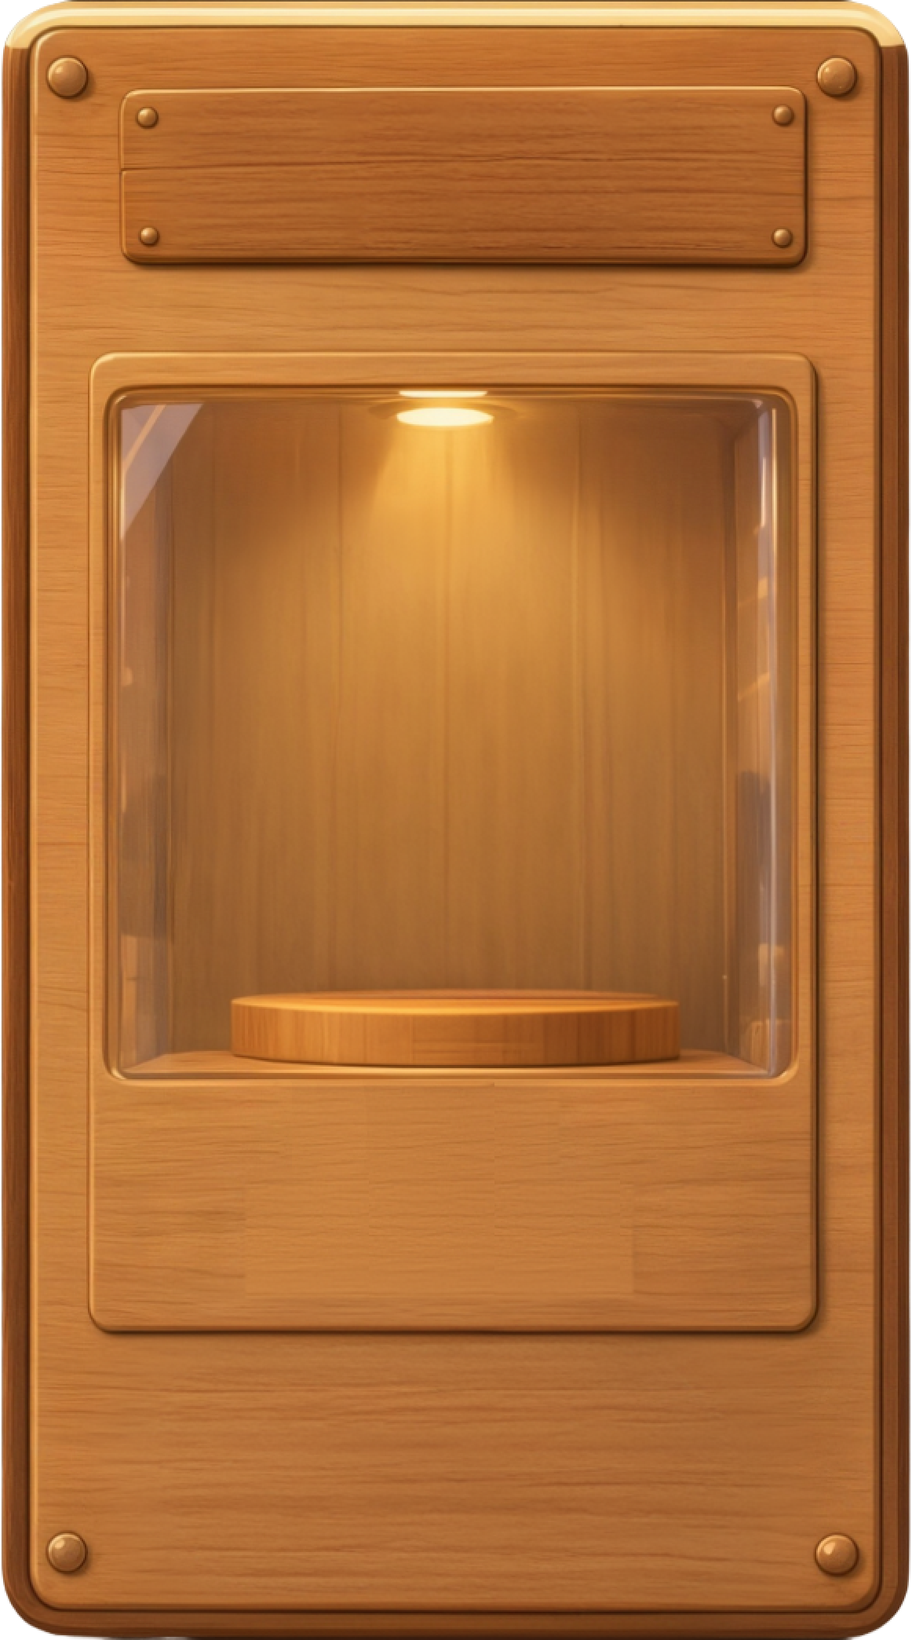
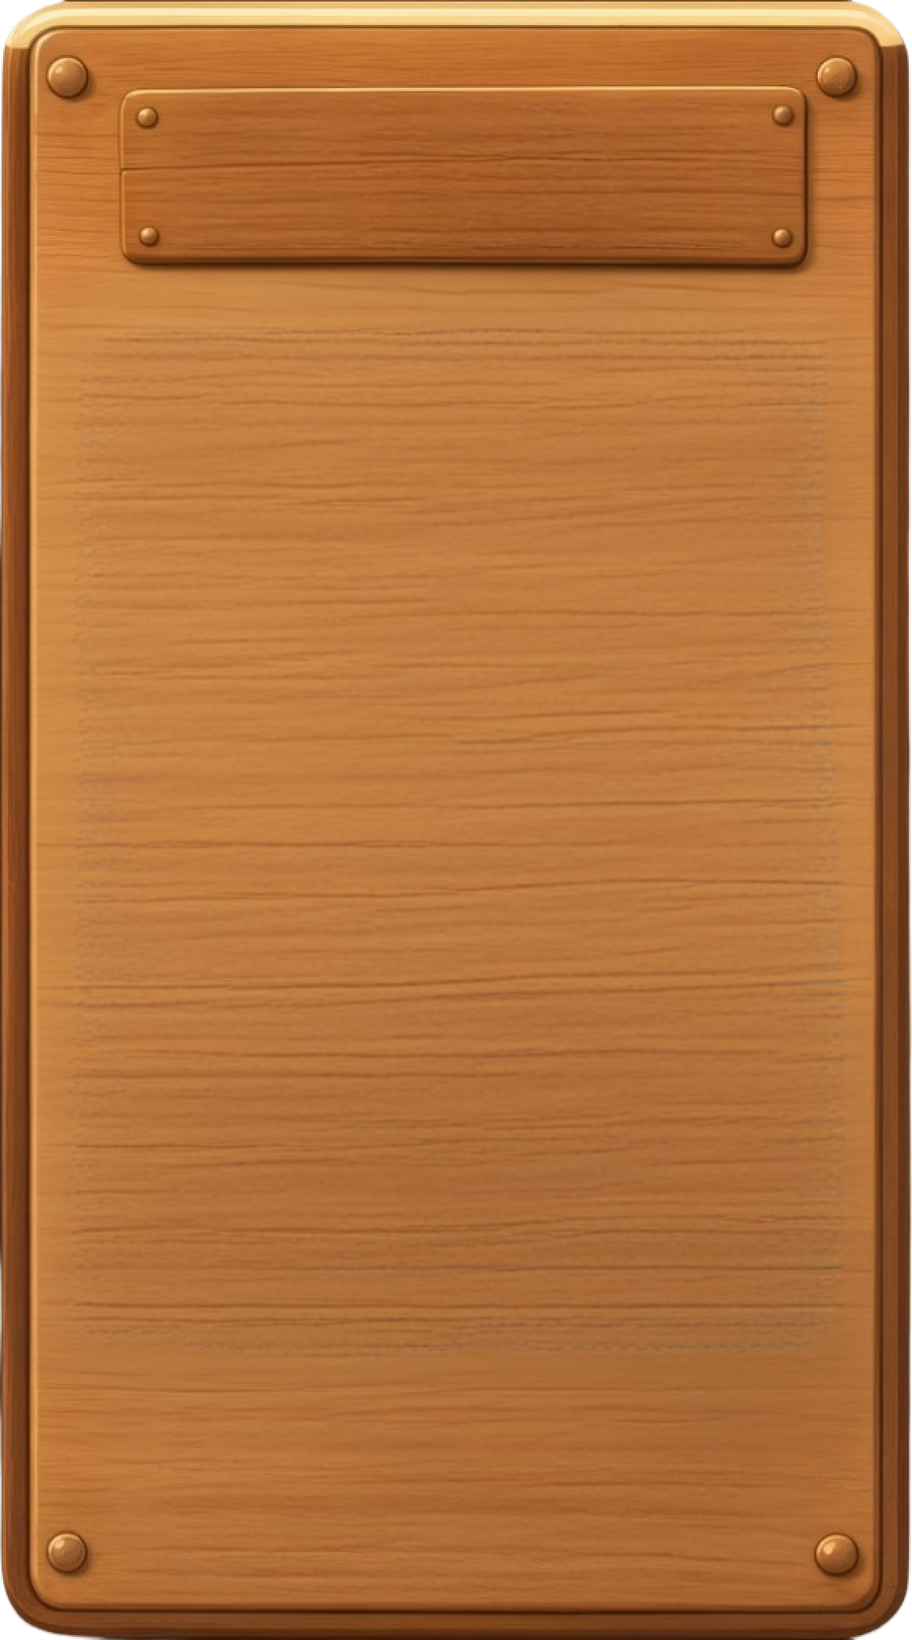
chore(beads): WXG-T-608 对话框背景改版稿重新下载并导入
用户令「对话框背景资源更新了，重新下载」。Figma 原始 nodes 接口实到
lastModified 2026-11-10T13:34:19Z / version 2420222447057842146，
95:116 两枚 IMAGE fill（旧 13f9490e 转 invisible、新 8161ce80 可见）。

- 重导出 825.0 KiB / sha ebb9e473…（旧 707ded7f…），99% 像素变化
- 新稿 = 纯木纹牌 + 顶部标题槽 + 四角铆钉，移除旧版牌内烘入的
  空橱窗 + 底座 + 道具格；几何 581×1044 零改动
- 覆盖设计源 ui_detail_plaque@2x.png；按在册 ship() 重出 Cocos 投放件
  并沿用现役 P 模式 + 透明索引（125,537 B，共同可见区与 RGBA 件
  逐像素一致 mean 0/max 0）；.meta 保持不动（L1）
- level-detail.ts 资产描述注释按 K-053 更新
- 前次「稿面未变 / 不重出投放件」结论作废（留档不删，正确性优先）
- harness 两屏视觉复核正常（非真机）；金样本 11 态未变（blit 不含纹素）
- verify PASS 23 / FAIL 0；登记 §12 + 台账 608 补记

diff --git a/games/beads/cocos/assets/scripts/game/config/tuning/level-detail.ts b/games/beads/cocos/assets/scripts/game/config/tuning/level-detail.ts
@@ -11,7 +11,12 @@
  * - 所有内容都落在牌内；「返回」是产品补钮（稿上只有「开始」），见 {@link LEVEL_DETAIL_GEO.back}。
  */
 export const LEVEL_DETAIL_GEO = {
-  /** 木牌面板（Figma `95:116`，整张烘图：木框 + 四角铆钉 + 空橱窗 + 底座）。 */
+  /**
+   * 木牌面板（Figma `95:116`，整张烘图）。
+   * `[WXG-T-608]` 2026-11-10 稿面更新：纯木纹 + 顶部标题槽 + 四角铆钉；
+   * 旧版烘在中间的「空橱窗 + 底座」已移除（K-053 旧描述留档），
+   * 运行时缩略 / 星级 / 道具行直接画在木纹面上。几何 `581×1044` 零改动。
+   */
   plate: { x: 89, yDown: 166, w: 581, h: 1044 },
   /** 板标题「关卡详情」（`95:59`，380×96 @190,230 ⇒ 中心）。 */
   title: { cx: 380, cyDown: 278 },

diff --git a/games/beads/src/config/tuning/level-detail.ts b/games/beads/src/config/tuning/level-detail.ts
@@ -11,7 +11,12 @@
  * - 所有内容都落在牌内；「返回」是产品补钮（稿上只有「开始」），见 {@link LEVEL_DETAIL_GEO.back}。
  */
 export const LEVEL_DETAIL_GEO = {
-  /** 木牌面板（Figma `95:116`，整张烘图：木框 + 四角铆钉 + 空橱窗 + 底座）。 */
+  /**
+   * 木牌面板（Figma `95:116`，整张烘图）。
+   * `[WXG-T-608]` 2026-11-10 稿面更新：纯木纹 + 顶部标题槽 + 四角铆钉；
+   * 旧版烘在中间的「空橱窗 + 底座」已移除（K-053 旧描述留档），
+   * 运行时缩略 / 星级 / 道具行直接画在木纹面上。几何 `581×1044` 零改动。
+   */
   plate: { x: 89, yDown: 166, w: 581, h: 1044 },
   /** 板标题「关卡详情」（`95:59`，380×96 @190,230 ⇒ 中心）。 */
   title: { cx: 380, cyDown: 278 },

diff --git a/production/TASKS.md b/production/TASKS.md
@@ -27,7 +27,7 @@
 | WXG-T-603 | UI·关卡详情道具图标（熨贴片 / 抖豆筛 / 扫豆刷）+ 数量标记 | 主理人(Cursor)·beads 美术/UI轨 | ✅ **完成（2026-11-08 · 用户令「设计系统中三个道具的icon放到三个星星下面替代图片上的三个道具，并且在每个道具元素右上角增加数量标记…三个图标要分开来确认」）**。图标经 qwen-image-3.0-pro（Token Plan）生成、三件分别确认后白底抠透明入库 `final/assets/powerup/`；面板 `95:116` 擦除三个旧道具格；Figma 落三枚 64×64 图标 + 24×24 数量标记（占位 1）。登记 = `production/TASKS-DETAIL.md §WXG-T-603`。| 见详情 |
 | WXG-T-606 | beads·选关页沿用关卡详情木牌 + 九宫格木托盘 | 主理人(Qoder)·设计/工程轨 | ✅ **完成（2026-11-09）**（用户两条口述：「沿用关卡详情的面板，只是中间区域改成选关页面」「将选关九宫格面板重新生成适合的九宫格样式」。① **容器木牌化**：581×1044 详情同款木牌、标题「选关」同槽 64px 暖金投影、右上 38² 凹槽 ✕ 复用 `drawCloseInset`；格 120/22→**128/16**、底部返回钮退场（✕ / 点牌外四条贴边带，新增 `close-levels`/`dismiss-levels`）；章名/星进度 967、判星行 430。② **九宫格木托盘**：Token Plan `qwen-image-3.0-pro` 以落码帧 `--ref` 两 seed 定稿 ⇒ 托盘底板 + 木框凹槽（4px 框 / 2px 深槽 / 米白内窗 / 顶缘受光），星带移内窗顶部、当前关黄铜 3px。③ 新增 `tuning/level-select.ts` 几何单源；UX 规格 **v0.9**；§12 两条视觉登记；金样本 2 态重抓（1848→1853→更高）；Token Plan 共 6 次调用零浪费。⚠ **号段订正**：本条早先三笔提交（`c21e6c6e`/`aab9d05c`/`d556a808`）误署 605（与并发 MiniMax 单撞号），现统一归 606。 | 见详情 |
 | WXG-T-607 | UI·选关对话框按 Figma `159:3` 稿重排 + View/ViewModel 落码 | 主理人(CodeBuddy)·beads 工程 | ✅ **完成（2026-11-10 · 用户令「复用关卡详情页的对话框背景图，其他资源从 page 内部元素生成，grid-1 作模板生成 cell 的 view 填满 grid-2～9，按 view-viewmodel 模式实现」）**。**稿面**：page `159:3` / `159:5 抠图层` / `164:64 九宫格` / `176:19 grid-1` 158×181 @(138,414)，列 pitch 158、行 pitch 194，背板 `164:63` 506×597；取 `185:36 grid-background` 木纹底 158×177 作模板（整组含固定编号「1」/星/锁 ⇒ 不复用，⛔ 与数据驱动冲突）。**落码**：① `level-select.ts` 几何由旧 128/16/416² 改稿面 158×181 / 158 / 194（K-053 旧值留档），`levelsLayout` 绘制命中同源；② 新位图 `LEVEL_SELECT_TEXTURES.cell`（`final/assets/detail/ui_level_select_cell@2x.png` + Cocos 256 色投放件），九格复用 + VM 驱动编号/缩略/星/锁/当前关，缺图 ⇒ `T-606` 程序化木托盘降级腿；③ **View/ViewModel**（§5）：新增 `level-select-view-model.ts`（只读 VM / 预分配 9 格 / 逐帧写同一对象 / `cellCount` 随行数档）、`level-select-view.ts`（纯 `(builder, vm, palette)`）、`meta-levels-page.ts` 缩成装配门面（对外签名不变）。容器沿用 `LEVEL_DETAIL_TEXTURES.plaque` + 同槽标题/关闭 ⇒ **零新容器资产**。**判据**：新增 `level-select-view-model.test.ts` 3 例 + 三组几何判据按 K-053 迁移。**金样本**：`level-select` / `level-select-mid` 两态 sha 变，干净锚重抓；其余九态逐字未变。⚠ 本机无 Cocos 编辑器 ⇒ 新投放件 `.meta` 未签发（L1 不伪造），真机暂走降级腿，解除条件 = 编辑器 reimport。登记 = `ui-architecture-beads §12` | 见详情 |
-| WXG-T-608 | 资产·关卡详情对话框背景重新下载并导入（稿面零漂移复核） | 主理人(CodeBuddy)·beads 美术/资产轨 | ✅ **完成（2026-11-10 · 用户令「关卡详情弹窗 page 里的对话框背景需要重新下载并导入」）**。**重新下载**：`wxgame-figma` REST + PAT，文件 `PBIK3RbfGlfzFsAnd97ZsP` / page `84:36 关卡详情弹窗 v25b` / `92:36` 抠图层 / **`95:116 对话框背景`** 581×1044 @画布(26,188)，`img --ids 95:116 --scale 2` ⇒ `1162×2088` RGBA / 932,812 B。**核对结论**：新导出与在库 `final/assets/detail/ui_detail_plaque@2x.png` **sha256 同为 `707ded7f…`、像素差 0** ⇒ 稿面自 T-604 导入后未变更，在库资产已是该节点最新版。**导入**：幂等覆盖写设计源（git 零 diff）；Cocos 投放件 `ui_detail_plaque.png`（P 模式 110 KB）与 `.meta` **保持不动**——按在册 `ship()` 配方重出虽更贴稿面（RGB mean 2.64 vs 现 3.54），但体积涨到 317 KB（+207 KB）且会引入轻微色变，⛔ 无用户裁定不劣化包体。**零视觉漂移** ⇒ 金样本 11 态逐字未变、无需重抓；`verify` PASS 23 / FAIL 0 | 见详情 |
+| WXG-T-608 | 资产·关卡详情对话框背景重新下载并导入（稿面零漂移复核） | 主理人(CodeBuddy)·beads 美术/资产轨 | ✅ **完成（2026-11-10 · 用户令「关卡详情弹窗 page 里的对话框背景需要重新下载并导入」）**。**重新下载**：`wxgame-figma` REST + PAT，文件 `PBIK3RbfGlfzFsAnd97ZsP` / page `84:36 关卡详情弹窗 v25b` / `92:36` 抠图层 / **`95:116 对话框背景`** 581×1044 @画布(26,188)，`img --ids 95:116 --scale 2` ⇒ `1162×2088` RGBA / 932,812 B。**核对结论**：新导出与在库 `final/assets/detail/ui_detail_plaque@2x.png` **sha256 同为 `707ded7f…`、像素差 0** ⇒ 稿面自 T-604 导入后未变更，在库资产已是该节点最新版。**导入**：幂等覆盖写设计源（git 零 diff）；Cocos 投放件 `ui_detail_plaque.png`（P 模式 110 KB）与 `.meta` **保持不动**——按在册 `ship()` 配方重出虽更贴稿面（RGB mean 2.64 vs 现 3.54），但体积涨到 317 KB（+207 KB）且会引入轻微色变，⛔ 无用户裁定不劣化包体。**零视觉漂移** ⇒ 金样本 11 态逐字未变、无需重抓；`verify` PASS 23 / FAIL 0 ⚠ **2026-11-10 续（用户令「对话框背景资源更新了，重新下载」）**：前次「稿面未变」结论**作废（K-053 留档不删）**。Figma 原始 `nodes` 接口实到 `lastModified 2026-11-10T13:34:19Z` / `version 2420222447057842146`，`95:116` 两枚 IMAGE fill（旧 `13f9490e…` 已 invisible、新 `8161ce80…` 可见）⇒ 重导出 **825.0 KiB / sha `ebb9e473…`**，与在库 sha `707ded7f…` 差 99% 像素（mean 8.364）。**真正导入**：覆盖 `ui_detail_plaque@2x.png`（844,830 B）+ 按在册配方重出 Cocos 投放件（P / 125,537 B，共同可见区与 `ship()` RGBA 逐像素一致 mean 0），`.meta` 不动；旧 110 KB 投放件口径保留、仅 +14.9 KB。新稿 = 纯木牌 + 顶部标题槽 + 四角铆钉，中间「空橱窗 + 底座」移除。金样本 11 态未变（blit 指令不含纹素）、`verify` PASS 23 / FAIL 0；harness 截图复核选关 / 详情两屏正常（⛔ 非真机） | 见详情 |
 | WXG-T-605 | 工具链·MiniMax-H3 文生视频工作流（内网 ComfyUI） | 主理人(Qoder)·工具链 | ✅ **完成（2026-11-09 · 用户令「本地配置 minimax h3 的大模型服务，制定文生视频工作流并验证」）**。**环境**：`192.168.1.16:8188`（Windows · RTX 2080 Ti 11GB · ComfyUI 0.40.0），已有 H3 GGUF 主干 / qwen3vl-32b 编码器 / 视频+音频 VAE / 8-step turbo LoRA。**交付**：`tools/scripts/minimax-h3-t2v.py`（标准库：probe / dry-run / 提交 / 轮询 / 下载 / FLAC+MP4 本地合轨；`--loader safetensors` 可切官方 int8）+ `tools/scripts/README-minimax-h3.md`。**验证**：链路 7 轮全通（116–498s/轮），但第三方 `MiniMax-H3-FL2VA-Pruned-Q3_K_M.gguf` 输出纯黑 + 饱和音频；已排除 VAE（往返 7485 色 / std 73）、文本编码器（GPU/CPU）、注意力后端、steps、分辨率、提示词。**阻塞**：换 Comfy-Org 官方 `minimax_h3_fl2va_pruned_int8_convrot.safetensors`（~19.5GB，需用户在 Windows 侧下载）；若仍黑则为 2080Ti 无原生 bf16 的精度墙。 | 见详情 |
 | WXG-T-604 | UI·关卡详情弹窗按 Figma 92:36 重排 + 单源规格 | 主理人(Trae)·beads UI轨 | ✅ **完成（2026-11-08 · 用户令「从 figma 读取关卡详情页 Page 的所有数据，重新整理关卡详情页 UI 设计」）**。**稿面全量回读**：Figma `PBIK3RbfGlfzFsAnd97ZsP` 页 `84:36` 帧 `92:36` 22KB 节点树 + 7 件 @2x 切图；复核重取一遍零漂移。**旧版 → 稿面**：纸面板 600×720 → 木牌 581×1044@(89,166)；道具 3×84 净距 36→9、角标从右下圆点改**右上 24² r8 贴边**；文字星 `★★☆` → 位图星 3×58×60；双钮行 → 单「开始」326×154（出口另补，见关闭交互）。**落码**：新 `config/tuning/level-detail.ts`（几何 + 纹理 id 单源，y 下锚点）、`meta-level-detail-page.ts` 自持版式（退 `panelPage`）、`meta-layout` 热区、shell 投影 `detailChapterTitle`。**资产**：4 件 Figma 切图入 `final/assets/detail/`（911+284+9+9 KB）+ Cocos 量化投放件 147 KB（主包 3.0 MB，红线 4 MB）。**核对揪出**：时限文字按 22 档居中会压第三枚星 ⇒ 改稿面左缘锚 x=482。**阴影回读（11-09 用户指出）**：`figma.mjs` 的 `slim()` 漏留 `effects` ⇒ 补留后取回 `95:59` 两枚内阴影 + 投影（`#5A2F0D` α0.80 +9,+7 blur3）；**最小契约** `TextCommand.shadow` + 三处渲染器（Canvas 原生含 blur / Cocos 双 Label / SVG 双 text），内阴影登记不实现（规格 §4.1）。**关闭交互（11-09 用户令）**：删「返回」，改木牌右上角框内 **38² 深实底凹槽**（3px 框槽、无内壁阴影、米白 ✕，零位图，刚好盖住角铆钉）；点牌外空白用四条贴边带关闭（牌内空白不关）；`close-detail` / `dismiss-detail` 与 `back` 同语义。**取证**：headless Chrome 真页面截图（`temp/detail-shot/detail-live.png`）目视通过；单测 6/6（流程 + 几何不变式 + 回退/位图双绘制腿）；`pnpm run verify` **PASS 23 / FAIL 0 / SKIP 0**；`check:links` OK。⚠ 未闭：Cocos 编辑器导入四枚 PNG 生成 `.meta`（无可写编辑器产物） | 见详情 · kb:sync 沉淀统计 新增0/修改0/激活0/归档0 |
 | WXG-T-599 | 美术·木牌字号按稿归一缩档（34 / 22 / 胶囊 27） | 主理人(CodeBuddy)·美术/UI轨 | ✅ **完成（2026-11-07 · 用户令「相比设计稿，现在字号有点大」→ 选甲「两行都缩」）**。**根因是量尺**：上一批（`WXG-T-597`）拿「稿像素」直接对「设计像素」，没做同尺归一。本批以胶囊宽为尺（稿 172 ↔ 线上 130 ⇒ 1.32 倍；铆钉净宽 328 ↔ 245 独立同得 1.34）归一后：关名墨高稿 39 ≈ **29.5 设计 px**，而 40px 粗体墨高 ≈35 ⇒ 比稿大 **19%**；次行墨稿 23 ≈ 17.4，而 28px 粗体墨高 ≈24.6 ⇒ 大 **41%**；胶囊 33 vs 稿 25 ⇒ 厚 **32%**。**落码**：关名 40→**34**（新增字型值，`UI_FONT.plateTitle`）、次行 28→**22**（**新增令牌 `UI_FONT.plateSub`** —— 不复用 `labelBold`，那档是资源条数值专用）、胶囊 `130×33`→**`130×27`**（`22×0.88/0.72 = 26.9`，实得 0.72 与稿一致）。**「第二行不得低于 28」的地板同时松绑**：该地板的原始理由只是「22px 落普通文本档需 4.5:1，而旧木牌色只有 3.60:1」；换令牌后次行墨压胶囊 = **4.61:1** ✓，22px 也过 4.5 ⇒ 地板不再挡路（关名 34 仍属大字号档，门 3:1，实得 5.38 ✓）。层级 1.43→**1.55**（稿 1.70）。**验证**：`menu-plate-title` 守卫改守「次行 = plateSub 22 粗、胶囊 h 27、关名 = plateTitle 34」，并发觉旧守卫那句「⛔ 回退 22 档」正是本轮要走的档 ⇒ 改为守「⛔ 退回 labelBold 28（会把牌撑大）」。视觉变更登记见 `ui-architecture-beads §12` | 见详情 |

diff --git a/ctx/BUDGET.md b/ctx/BUDGET.md
@@ -22,12 +22,12 @@
 
 | # | 文件 | tokens | 行数 | tier |
 |---:|---|---:|---:|:--:|
-| 1 | `production/TASKS-DETAIL.md` | 259091 | 9258 | normal |
+| 1 | `production/TASKS-DETAIL.md` | 259887 | 9268 | normal |
 | 2 | `games/beads/design/gdd/powerups-v2.md` | 154839 | 2359 | normal |
 | 3 | `games/beads/design/art/specs/assets-spec.md` | 121820 | 2109 | normal |
 | 4 | `production/qa/beads/g4-regression-report.md` | 86807 | 2201 | normal |
 | 5 | `games/beads/design/ux/ux-spec.md` | 62587 | 590 | normal |
-| 6 | `production/TASKS.md` | 58215 | 215 | hot |
+| 6 | `production/TASKS.md` | 58498 | 215 | hot |
 | 7 | `games/beads/design/gdd/systems-index-changelog.md` | 53260 | 109 | normal |
 | 8 | `docs/architecture/adr/ADR-0030-beads-cocos-production-blit-carrier.md` | 45150 | 1307 | normal |
 | 9 | `games/beads/design/proposals/bead-visual-style-spec.md` | 43650 | 1206 | normal |
@@ -37,7 +37,7 @@
 | 13 | `games/beads/design/art/proposals/ui-style-redesign/menu-architecture.md` | 38455 | 996 | normal |
 | 14 | `games/beads/design/art/specs/art-bible.md` | 38368 | 530 | normal |
 | 15 | `games/beads/design/art/specs/accessibility.md` | 37140 | 201 | normal |
-| 16 | `docs/architecture/ui-architecture-beads.md` | 28491 | 282 | normal |
+| 16 | `docs/architecture/ui-architecture-beads.md` | 28833 | 284 | normal |
 | 17 | `memory/2026-10-04.md` | 28255 | 930 | normal |
 | 18 | `games/beads/design/gdd/save-progress.md` | 26135 | 305 | normal |
 | 19 | `games/beads/design/proposals/star-economy-and-retention.md` | 22195 | 763 | normal |
@@ -49,7 +49,7 @@
 
 | 文件 | tokens | 类别 · 上限 | 处置 |
 |---|---:|---:|:--:|
-| `production/TASKS-DETAIL.md` | 259091 | tasksDetail · 205000 | 见 `ctx/budget-exempt.json`（无豁免则 ❌ 需报告主理人） |
+| `production/TASKS-DETAIL.md` | 259887 | tasksDetail · 205000 | 见 `ctx/budget-exempt.json`（无豁免则 ❌ 需报告主理人） |
 | `games/beads/design/gdd/powerups-v2.md` | 154839 | spec · 8000 | 见 `ctx/budget-exempt.json`（无豁免则 ❌ 需报告主理人） |
 | `games/beads/design/art/specs/assets-spec.md` | 121820 | spec · 8000 | 见 `ctx/budget-exempt.json`（无豁免则 ❌ 需报告主理人） |
 | `production/qa/beads/g4-regression-report.md` | 86807 | ledger · 16000 | 见 `ctx/budget-exempt.json`（无豁免则 ❌ 需报告主理人） |
@@ -63,7 +63,7 @@
 | `games/beads/design/art/proposals/ui-style-redesign/menu-architecture.md` | 38455 | spec · 8000 | 见 `ctx/budget-exempt.json`（无豁免则 ❌ 需报告主理人） |
 | `games/beads/design/art/specs/art-bible.md` | 38368 | spec · 8000 | 见 `ctx/budget-exempt.json`（无豁免则 ❌ 需报告主理人） |
 | `games/beads/design/art/specs/accessibility.md` | 37140 | spec · 8000 | 见 `ctx/budget-exempt.json`（无豁免则 ❌ 需报告主理人） |
-| `docs/architecture/ui-architecture-beads.md` | 28491 | spec · 8000 | 见 `ctx/budget-exempt.json`（无豁免则 ❌ 需报告主理人） |
+| `docs/architecture/ui-architecture-beads.md` | 28833 | spec · 8000 | 见 `ctx/budget-exempt.json`（无豁免则 ❌ 需报告主理人） |
 | `memory/2026-10-04.md` | 28255 | spec · 8000 | 见 `ctx/budget-exempt.json`（无豁免则 ❌ 需报告主理人） |
 | `games/beads/design/gdd/save-progress.md` | 26135 | spec · 8000 | 见 `ctx/budget-exempt.json`（无豁免则 ❌ 需报告主理人） |
 | `games/beads/design/proposals/star-economy-and-retention.md` | 22195 | spec · 8000 | 见 `ctx/budget-exempt.json`（无豁免则 ❌ 需报告主理人） |

diff --git a/docs/architecture/ui-architecture-beads.md b/docs/architecture/ui-architecture-beads.md
@@ -273,6 +273,8 @@ games/beads/src/ui/
 
 **资产复核登记（2026-11-10 · WXG-T-608 · 关卡详情对话框背景重新下载）**：用户令「关卡详情弹窗 page 里的对话框背景需要重新下载并导入」。重取 Figma `84:36 / 92:36 / 95:116` @2x（1162×2088 / 932,812 B），与在库 `final/assets/detail/ui_detail_plaque@2x.png` **sha256 同 `707ded7f…`、像素差 0** ⇒ 稿面自 `T-604` 后未变，容器木牌资产已是最新版。幂等覆盖写设计源（git 零 diff）；`cocos/assets/textures/detail/ui_detail_plaque.png`（P / 110 KB）与 `.meta` 不动——在册 `ship()` 配方重出虽更贴稿面（RGB mean 2.64 vs 3.54）但涨到 317 KB 且引入色变，按包体纪律不劣化（详见 `TASKS-DETAIL.md ## WXG-T-608`）。**零视觉漂移**：`LEVEL_DETAIL_TEXTURES.plaque` 一条 blit 指令不变 ⇒ 11 态金样本 sha / total / kinds 逐字未变，⛔ 无需重抓；证书 = 实现自证（金样本不含纹素），⛔ 非真机证据。
 
+> **补（2026-11-10 · WXG-T-608 续 · 对话框背景真正改版导入）**：上一条「稿面未变 / 零漂移」的复核结论**因用户随后在 Figma 更新资源而作废**（K-053 留档不删）。原始 `nodes` 接口实到 `lastModified 2026-11-10T13:34:19Z` / `version 2420222447057842146`，`95:116` 两枚 IMAGE fill（旧 `13f9490e…` 转 invisible、新 `8161ce80…` 可见）⇒ 重导出 sha `ebb9e473…`（旧 `707ded7f…`），99% 像素变化。**视觉改版**：新稿 = 纯木纹牌 + 顶部标题槽 + 四角铆钉，**移除旧版烘在牌内的「空橱窗 + 底座 + 道具格」**；几何 581×1044 零改动 ⇒ 详情 / 选关两页的缩略、星级、道具行、九宫格直接画在木纹面上（harness 两屏复核正常，**非真机证据**）。**导入**：覆盖设计源 + 按在册 `ship()` 配方重出 Cocos 投放件（沿用现役 P 模式 + 透明索引，125,537 B，共同可见区与 RGBA 件逐像素一致），`.meta` 不动；`level-detail.ts` 资产描述注释同步更新。金样本 11 态未变（blit 指令不含纹素）；`verify` PASS 23 / FAIL 0。
+
 **关键路径**：UI-00 → UI-01 → UI-10…14 → UI-20 → UI-22 / UI-25 → UI-30 → UI-31 → UI-41 → UI-42 → UI-50 → UI-53。UI-02（金样本）与 P1 可并行，但必须在 UI-30 前完成。
 
 > **[WXG-T-473] 金样本复评登记（2026-10-28）**：`copy-tokens.ts::version_label` 发布文案变更（`v1.x · 演示版` → `v1.0.0 · 演示版`，T-469 USER 版本号裁定「首发 1.0.x、x = build 号」）⇒ Meta 四屏（main-menu / level-select-mid / settings / signin）底部版本行文本变 ⇒ 整帧 sha 漂移（total / 种类数零变，纯文本内容）。复取器两遍确定性自证 PASS，夹具 `capturedFrom` = `2fbe8e4d`；对拍 **13/13 绿**。复取说明：工作树 src 面与 HEAD 零差异（dirty 仅 docs 台账两件），主树复取等价干净检出（K-167 精神，注记披露）。

diff --git a/ctx/hot-files.md b/ctx/hot-files.md
@@ -25,7 +25,7 @@
 
 §wechatgame 项目长期笔记=1+83 · §日志蒸馏规程（R2 · WXG-T-0…=7+6 · §项目约定=13+22 · §常用脚本=35+11 · §SubAgent=46+4 · §Rules=50+3 · §Hooks=53+7 · §Headless / CI=60+8 · §已知限制=68+16
 
-## `production/TASKS.md` — 215 行 / 58215 tok / 实测读 4 次
+## `production/TASKS.md` — 215 行 / 58498 tok / 实测读 4 次
 
 §WXG 任务台账（SSOT）=1+216 · §待排（backlog，无号，立项时领取…=188+29
 
@@ -103,9 +103,9 @@
 §knowledge/ — 工作室知识库…=1+323 · §1 读取协议（开发前期）=7+10 · §2 写入协议（任务收尾）=17+28 · §3 文件分工=45+10 · §4 维护=55+12 · §5 生命周期（访问记账 → 归档 → …=67+41 · §6 活跃条目（自动生成）=108+216
 > 本表只列 7 / 11 节：其余 4 节 → ctx/index.json（按 path 取 `sections[].anchor` / `startLine`，勿整读）。
 
-## `production/TASKS-DETAIL.md` — 9258 行 / 259091 tok
+## `production/TASKS-DETAIL.md` — 9268 行 / 259887 tok
 
-§WXG 任务台账 · 详情（标题制正文…=1+9259 · §WXG-T-597=8857+62 · §WXG-T-598=8919+60 · §WXG-T-599=8979+69 · §WXG-T-600=9048+53 · §WXG-T-601=9101+29 · §WXG-T-602=9130+17 · §WXG-T-603=9147+14 · §WXG-T-604=9161+20 · §WXG-T-605=9181+13 · §WXG-T-606=9194+30 · §WXG-T-607=9224+22 · §WXG-T-608=9246+14
+§WXG 任务台账 · 详情（标题制正文…=1+9269 · §WXG-T-597=8857+62 · §WXG-T-598=8919+60 · §WXG-T-599=8979+69 · §WXG-T-600=9048+53 · §WXG-T-601=9101+29 · §WXG-T-602=9130+17 · §WXG-T-603=9147+14 · §WXG-T-604=9161+20 · §WXG-T-605=9181+13 · §WXG-T-606=9194+30 · §WXG-T-607=9224+22 · §WXG-T-608=9246+24
 > 本表只列 13 / 1030 节：其余 1017 节 → ctx/index.json（按 path 取 `sections[].anchor` / `startLine`，勿整读）。
 
 ## `games/breakout/design/concept.md` — 143 行 / 3113 tok / 实测读 217 次
